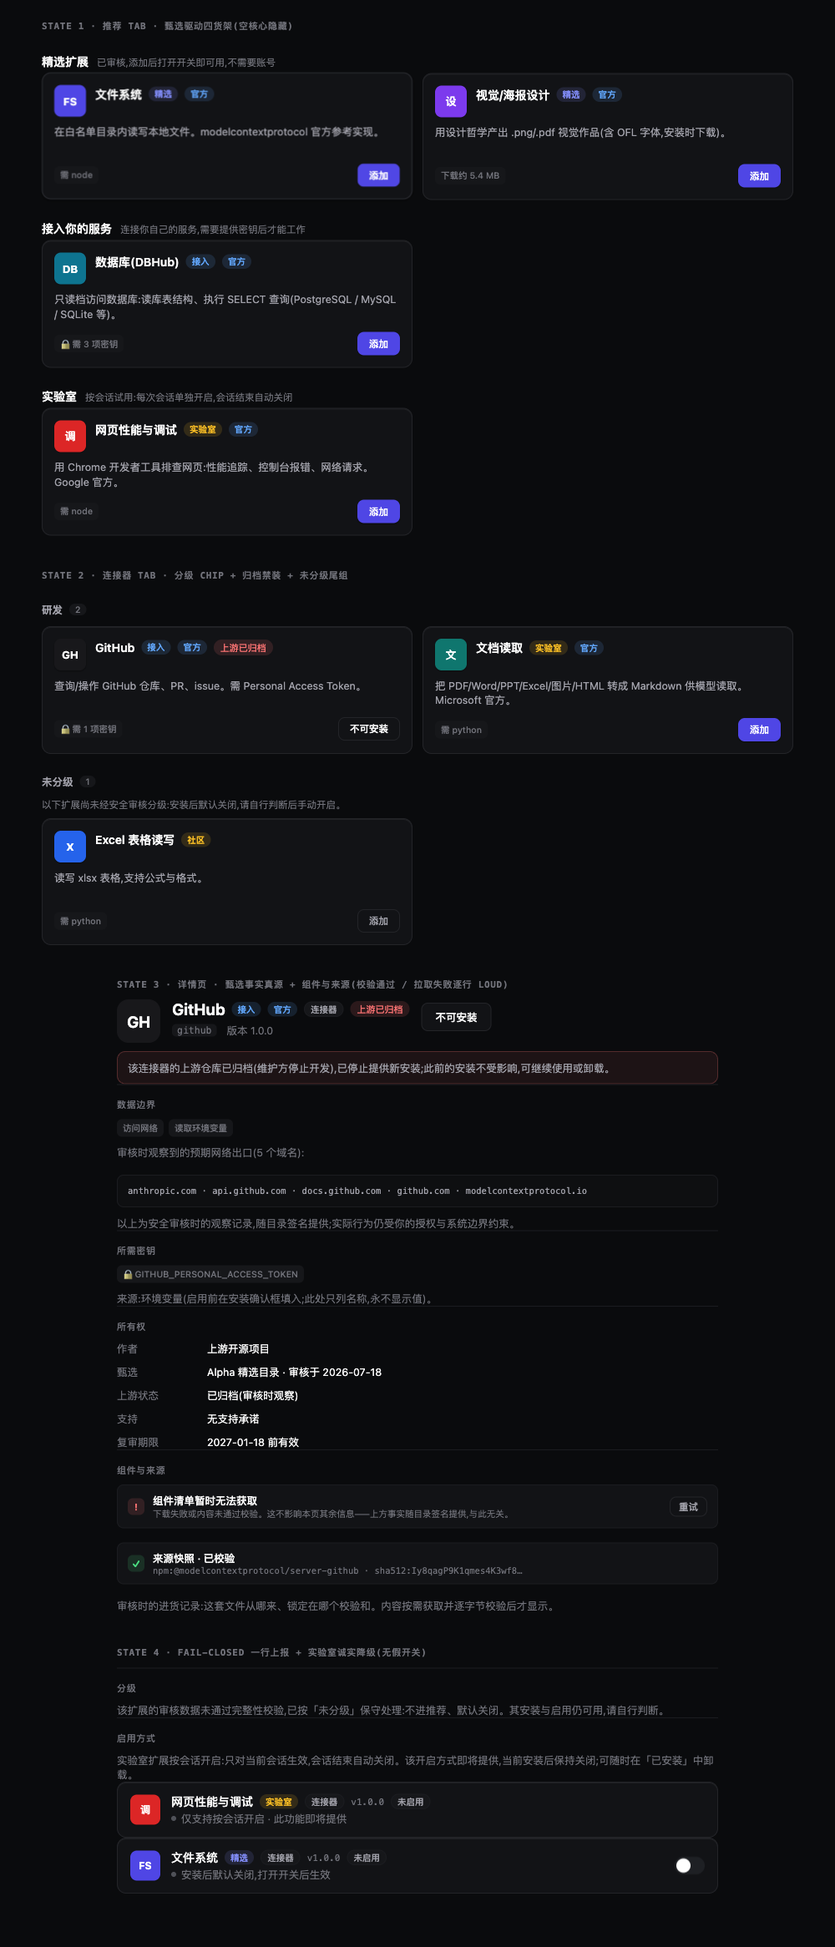
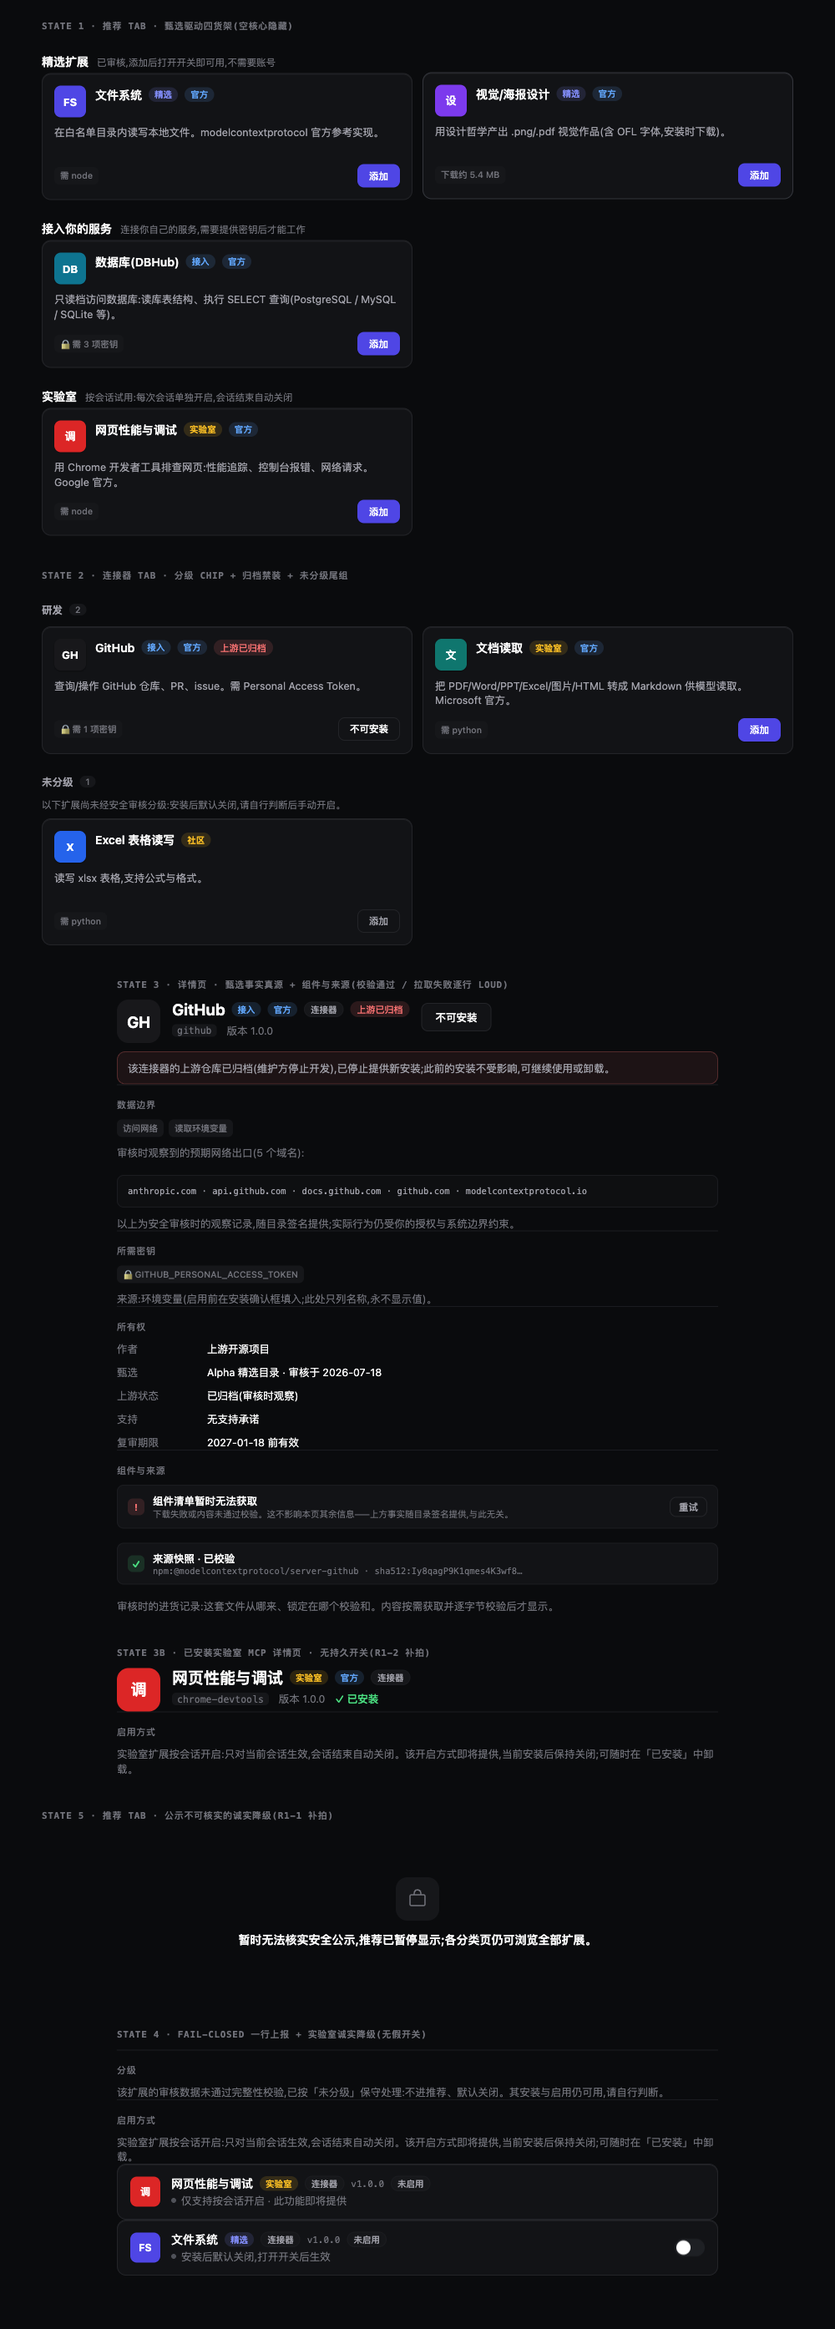
fix(REQ-104 #397 PR-B r1): 公示不可判定推荐面 fail-closed + 详情页实验室开关闭口 + 密钥来源分组 + config-only 口径
r1-1(Major):推荐面公示三态 —— advisoryFacts 加载中 / IPC 失败 / fresh=false(冷启动、
  过期 LKG)一律不建货架(不可判定 ≠ 空集,与 main「advisories 不可验即拒激活」同向
  fail-closed);诚实降级文案「暂时无法核实安全公示,推荐已暂停显示;各分类页仍可浏览
  全部扩展」(零术语);fetcher 异常自吞归一为不可判定态。
r1-2(Major):已装 MCP 详情页开关条件补 !sessionGrantNow() —— 实验室条目详情页与已装行
  同条件不渲染持久开关(可点后被 main 拒的开关 = 假开关,违 #408 诚实降级)。
r1-3(Minor):curated 密钥按来源分组如实标注(environment/connection 各组各注;混合来源
  不再整组误标环境变量)。
r1-4(Minor):metaPills 补 config-only →「无需下载(仅写配置)」(connection-only 条目
  的诚实口径;三态闭集全覆盖)。
out-of-round:L2 README 补 YAML frontmatter(verification 文档合同);CHANGELOG「精选
  (添加即用)」改「添加后打开开关即可用」并补公示降级一句(与 default-disabled 一致)。

L2 全量重摄(六态 × 双主题):增补 态 3B = 已装实验室 MCP 详情页无开关(r1-2)、
态 5 = 公示不可核实降级(r1-1);README 注明补拍。
门:scripts/alpha-check.sh 全量绿(2150 tests,0 fail)。

Refs jinjunnn/alpha-code#397

diff --git a/packages/ui-mac/src/renderer/extensions/extension-hub.tsx b/packages/ui-mac/src/renderer/extensions/extension-hub.tsx
@@ -131,7 +131,8 @@ function metaPills(e: CatalogEntry, curation?: Curation | null): { text: string;
       out.push({ text: t("alpha.ext.metaKeysCount", { count: String(curation.summaries.requiredSecrets.length) }), lock: true })
     const dl = downloadPresentation(curation)
     if (dl.kind === "known") out.push({ text: t("alpha.ext.metaDownloadKnown", { size: formatBytesApprox(dl.bytes) }) })
-    else if (dl.kind === "unknown") out.push({ text: t("alpha.ext.metaDownloadUnknown") })
+    else if (dl.kind === "config-only") out.push({ text: t("alpha.ext.metaDownloadNone") }) // r1-4:connection-only 诚实口径
+    else out.push({ text: t("alpha.ext.metaDownloadUnknown") })
     if (e.type === "bundle") out.push({ text: t("alpha.ext.metaItems", { count: (e.bundleItems ?? []).length }) })
     return out
   }
@@ -550,13 +551,25 @@ export function ExtensionHub(props: {
   // 复审期限比较的时钟:每次打开 hub 取一次(合同:消费端时钟仅用于此比较)。
   const nowIso = createMemo(() => (props.open(), new Date().toISOString()))
   // 公示阻断事实(main 派生已验公示 LKG + 随包基线;advisory 永远赢,§1)—— 每次打开刷新。
+  // r1-1(Major):**不可判定 ≠ 空集** —— 加载中 / IPC 失败 / 公示不新鲜(fresh=false:冷启动、
+  // 过期 LKG)时,renderer 无法证明条目未被公示阻断,推荐面必须保守(不建货架,诚实降级文案),
+  // 与 main 闸「advisories 不可验即拒激活」同向 fail-closed。fetcher 自吞异常归一为不可判定态。
   const [advisoryFacts] = createResource(
     () => (props.open() ? "open" : null),
-    () => window.api.ext.advisoryActive(),
+    () => window.api.ext.advisoryActive().catch((): { ids: string[]; fresh: boolean } => ({ ids: [], fresh: false })),
   )
+  const advisoryState = createMemo<"loading" | "unavailable" | "ready">(() => {
+    if (advisoryFacts.loading) return "loading"
+    if (advisoryFacts.error) return "unavailable"
+    const f = advisoryFacts()
+    return f && f.fresh ? "ready" : "unavailable"
+  })
   const advisoryBlocked = createMemo(() => new Set(advisoryFacts()?.ids ?? []))
   // 推荐页四货架(固定序 核心→精选→接入→实验室;空货架隐藏;未策展/归档/失养/过期/公示不进)。
-  const shelves = createMemo(() => buildShelves(catalog().entries, curationById(), nowIso(), advisoryBlocked()))
+  // 公示事实未就绪 = 零货架(保守;featured JSX 按 advisoryState 给诚实降级态)。
+  const shelves = createMemo(() =>
+    advisoryState() === "ready" ? buildShelves(catalog().entries, curationById(), nowIso(), advisoryBlocked()) : [],
+  )
 
   // Connectors grouped by category (fixed order) — drives the 连接器 tab subheaders.
   // #397 改动二:分组轴保持 category(货架是治理身份不是导航轴);仅已分级条目进分组,
@@ -1675,7 +1688,15 @@ export function ExtensionHub(props: {
                         </>
                       )}
                     </For>
-                    <Show when={shelves().length === 0}>
+                    {/* r1-1:公示事实三态的诚实呈现 —— 核实中 / 不可核实(保守不推荐,分类页仍可浏览)/
+                        就绪但目录无已审核条目。绝不以空集当「没有公示」上架。 */}
+                    <Show when={advisoryState() === "loading"}>
+                      <EmptyState title={t("alpha.ext.advisoriesChecking")} />
+                    </Show>
+                    <Show when={advisoryState() === "unavailable"}>
+                      <EmptyState title={t("alpha.ext.advisoriesUnavailable")} />
+                    </Show>
+                    <Show when={advisoryState() === "ready" && shelves().length === 0}>
                       <EmptyState title={t("alpha.ext.noShelves")} />
                     </Show>
                   </Show>

diff --git a/packages/ui-mac/src/renderer/extensions/extension-detail.tsx b/packages/ui-mac/src/renderer/extensions/extension-detail.tsx
@@ -436,7 +436,9 @@ export function ExtensionDetail(props: {
                     </button>
                   </Show>
                 </Show>
-                <Show when={e().type === "mcp" && installed()}>
+                {/* r1-2(Major):session-grant 条目详情页同样**不渲染**持久开关(main 闸拒持久启用;
+                    可点后被拒的开关 = 假开关,违反 #408 诚实降级 —— 与已装列表行同一条件)。 */}
+                <Show when={e().type === "mcp" && installed() && !sessionGrantNow()}>
                   {(() => {
                     // #395(Codex r9 B3):启用真源 = governance activation(账本 desiredState 投影);无
                     // governance 行(live-unreceipted 合成收据)按 live 连接态。开关走 hub 的
@@ -1040,28 +1042,45 @@ export function ExtensionDetail(props: {
               </Show>
             }
           >
-            {(c) => (
-              <Show
-                when={c().summaries.requiredSecrets.length > 0}
-                fallback={<p class="alpha-ext-dnote">{t("alpha.ext.noSecrets")}</p>}
-              >
-                <div class="alpha-ext-dpills">
-                  <For each={c().summaries.requiredSecrets}>
-                    {(s) => (
-                      <span class="alpha-ext-meta">
-                        <LockIc />
-                        {s.name}
-                      </span>
-                    )}
-                  </For>
-                </div>
-                <p class="alpha-ext-dnote">
-                  {c().summaries.requiredSecrets.every((s) => s.source === "connection")
-                    ? t("alpha.ext.secretsFromConnNote")
-                    : t("alpha.ext.secretsFromEnvNote")}
-                </p>
-              </Show>
-            )}
+            {(c) => {
+              // r1-3(Minor):按来源分组如实标注 —— 合同允许同条目混合 environment/connection,
+              // 整组归为环境变量会把 connection 密钥的来源说错;逐组各配各的说明。
+              const envSecrets = () => c().summaries.requiredSecrets.filter((s) => s.source === "environment")
+              const connSecrets = () => c().summaries.requiredSecrets.filter((s) => s.source === "connection")
+              return (
+                <Show
+                  when={c().summaries.requiredSecrets.length > 0}
+                  fallback={<p class="alpha-ext-dnote">{t("alpha.ext.noSecrets")}</p>}
+                >
+                  <Show when={envSecrets().length > 0}>
+                    <div class="alpha-ext-dpills">
+                      <For each={envSecrets()}>
+                        {(s) => (
+                          <span class="alpha-ext-meta">
+                            <LockIc />
+                            {s.name}
+                          </span>
+                        )}
+                      </For>
+                    </div>
+                    <p class="alpha-ext-dnote">{t("alpha.ext.secretsFromEnvNote")}</p>
+                  </Show>
+                  <Show when={connSecrets().length > 0}>
+                    <div class="alpha-ext-dpills">
+                      <For each={connSecrets()}>
+                        {(s) => (
+                          <span class="alpha-ext-meta">
+                            <LockIc />
+                            {s.name}
+                          </span>
+                        )}
+                      </For>
+                    </div>
+                    <p class="alpha-ext-dnote">{t("alpha.ext.secretsFromConnNote")}</p>
+                  </Show>
+                </Show>
+              )
+            }}
           </Show>
         </Section>
 

diff --git a/packages/ui-mac/src/renderer/i18n/en.ts b/packages/ui-mac/src/renderer/i18n/en.ts
@@ -213,6 +213,8 @@ export const dict = {
   "alpha.ext.shelfLabsTitle": "Labs",
   "alpha.ext.shelfLabsSub": "Per-session trial: turn it on for one session; it switches off when the session ends",
   "alpha.ext.noShelves": "Recommendations are on their way — this catalog has no reviewed extensions yet",
+  "alpha.ext.advisoriesChecking": "Checking security notices\u2026",
+  "alpha.ext.advisoriesUnavailable": "Security notices can\u2019t be verified right now, so recommendations are paused \u2014 every extension is still available in the category tabs.",
   "alpha.ext.ungradedGroup": "Not yet graded",
   "alpha.ext.ungradedNote": "These extensions have not been graded by security review yet: they stay off after install — turn them on yourself if you trust them.",
   "alpha.ext.shelfArchivedChip": "Upstream archived",

diff --git a/packages/ui-mac/src/renderer/i18n/zh.ts b/packages/ui-mac/src/renderer/i18n/zh.ts
@@ -212,6 +212,8 @@ export const dict = {
   "alpha.ext.shelfLabsTitle": "实验室",
   "alpha.ext.shelfLabsSub": "按会话试用:每次会话单独开启,会话结束自动关闭",
   "alpha.ext.noShelves": "推荐内容准备中:当前目录还没有通过安全审核的扩展",
+  "alpha.ext.advisoriesChecking": "正在核实安全公示\u2026",
+  "alpha.ext.advisoriesUnavailable": "暂时无法核实安全公示,推荐已暂停显示;各分类页仍可浏览全部扩展。",
   "alpha.ext.ungradedGroup": "未分级",
   "alpha.ext.ungradedNote": "以下扩展尚未经安全审核分级:安装后默认关闭,请自行判断后手动开启。",
   "alpha.ext.shelfArchivedChip": "上游已归档",

diff --git a/CHANGELOG.md b/CHANGELOG.md
@@ -9,7 +9,7 @@
 ## [Unreleased]
 
 ### Added
-- **定制中心按安全审核分级呈现:推荐页四级货架 + 详情页供应链事实**(REQ-104 #397 下半场,需下个签名版本生效)——①推荐页不再是手挑列表,改为按签名目录的审核分级自动生成的货架:核心(自动开启)、精选(添加即用)、接入(需你的密钥)、实验室(按会话试用);空货架自动隐藏,未经审核、上游已归档/不再维护、评审过期或有安全公示的扩展一律不进推荐(公示判定来自应用核实过的签名公示数据)。②各类型页里,已审核的扩展带四色分级标识,未审核的收进页尾「未分级」组并如实说明「安装后默认关闭」;上游已归档的扩展「添加」按钮置灰并给出原因。③详情页的数据边界、所需密钥、所有权改读签名审核记录:能力用大白话列出(读取本地文件、访问网络等)、预期网络出口逐域名可查(超过 6 个可展开)、密钥标注来源、所有权段并入审核时间/上游状态/支持等级/复审期限;新增「组件与来源」段,组件清单与来源快照按需下载、逐字节校验通过才显示,失败逐行如实报错并可重试(不影响本页其他信息)。④审核数据校验不过的扩展,详情页一行如实说明按「未分级」保守处理;实验室扩展详情页讲清「按会话开启」的含义(该开启方式即将提供,当前安装后保持关闭,已装行不显示无效开关);评审过期的扩展开启前弹确认框展示过期事实;安装完成提示按审核声明如实说「已装未启用」或直接可用。
+- **定制中心按安全审核分级呈现:推荐页四级货架 + 详情页供应链事实**(REQ-104 #397 下半场,需下个签名版本生效)——①推荐页不再是手挑列表,改为按签名目录的审核分级自动生成的货架:核心(自动开启)、精选(添加后打开开关即可用)、接入(需你的密钥)、实验室(按会话试用);空货架自动隐藏,未经审核、上游已归档/不再维护、评审过期或有安全公示的扩展一律不进推荐(公示判定来自应用核实过的签名公示数据;公示暂时无法核实时推荐如实暂停,各分类页照常可浏览)。②各类型页里,已审核的扩展带四色分级标识,未审核的收进页尾「未分级」组并如实说明「安装后默认关闭」;上游已归档的扩展「添加」按钮置灰并给出原因。③详情页的数据边界、所需密钥、所有权改读签名审核记录:能力用大白话列出(读取本地文件、访问网络等)、预期网络出口逐域名可查(超过 6 个可展开)、密钥标注来源、所有权段并入审核时间/上游状态/支持等级/复审期限;新增「组件与来源」段,组件清单与来源快照按需下载、逐字节校验通过才显示,失败逐行如实报错并可重试(不影响本页其他信息)。④审核数据校验不过的扩展,详情页一行如实说明按「未分级」保守处理;实验室扩展详情页讲清「按会话开启」的含义(该开启方式即将提供,当前安装后保持关闭,已装行不显示无效开关);评审过期的扩展开启前弹确认框展示过期事实;安装完成提示按审核声明如实说「已装未启用」或直接可用。
 - **扩展目录开始消费官方安全审核结论(地基半场:安装与启用策略先行)**(REQ-104 #397 PR-A,需下个签名版本生效)——签名目录里经过安全审核的扩展现在携带一份逐项审核结论(分级、启用方式、上游状态、复审期限、组件清单与来源快照的校验引用),本次先让**安装与启用面**真实消费它:①审核声明的启用方式优先于按来源猜的保守规则——声明「自动开启」的核心能力装完即用,声明「手动开启」的装完保持关闭;②标注「按会话试用」的实验室扩展,永远不会被持久开启:安装后保持关闭,任何路径(含更新到新版本)尝试把它设为常开都会被如实拒绝或当场纠正(按会话开启的机制随后续版本提供);历史上已被设为常开的(连接器、agent、插件、技能全类型)在下次启动时统一回到关闭;应用无法核实审核数据(联网记录缺失或损坏)而又存在已开启的目录扩展时,启动如实报错并停止加载扩展引擎,而不是装作没有问题;③上游仓库已归档的扩展停止提供新安装(已装的不受影响),套件里若包含此类必选子项则整包如实失败、可选子项跳过并说明;④安全复审已过期的扩展,新装先保持关闭、开启需要你显式确认;⑤审核数据但凡有一处对不上(未知字段、校验不过),整份一律不采信,按未审核的保守规则处理,绝不挑着用。组件清单与来源快照按需获取、逐字节校验后才会展示(展示界面随下半场交付)。审核结论如何呈现在推荐页与详情页(四级货架)也随下半场交付。
 - **第三方扩展装完默认不启用,启用开关扩展到全部类型**(REQ-104 #395,需下个签名版本生效)——从目录安装非 Alpha 自产的扩展(包括 GitHub 这类"官方出品"的连接器:官方出品不等于我们审过,供应链语义按第三方)后,它出现在「已安装」列表但处于关闭状态:技能不注入、agent 不加载、插件不进加载名单、连接器不连接,行上有「已安装 · 未启用」徽标,安装完成的提示也如实说"已安装但未启用"。你打开行内开关才生效——开关现在对技能/agent/插件/连接器全类型可用(此前只有连接器有),关闭同样真实卸下运行面。Alpha 自产与出厂自带能力保持默认开;你自己导入的技能/agent 视为自选内容,同样默认开;已装扩展不回溯改状态,更新/回滚永远保留你当前设定的开关状态(禁用状态下更新照常换代内容,但绝不静默重新启用)。启停切换在同一把锁内原子写入配置投影(禁用的插件从配置缺席、连接器写 enabled:false、agent 写 disable:true)并翻转账本,配置自持禁用态、界面显示与实际运行状态一致;被安全公告点名的扩展重新启用仍会被拦下。
 - **套件详情页新增「整包事实」段,装前看清整体代价**(REQ-104 #396,需下个签名版本生效)——套件(多个扩展打包一键装)的详情页在简介与子项列表之间新增一段整包汇总:下载体积(只统计经校验钉死的下载资产,含未钉死子项时如实显示「≥ 已知体积 + N 项体积未知」,绝不估算)、所需密钥变量、运行位置、支持等级(按全部子项的最低档),以及整包能力并集——每项能力标注来自哪个子项,高风险能力(本机子进程、引擎进程内代码)排前并显式标出,与安装时的授权确认框同一套派生来源与风险分级,两处永不打架。

diff --git a/docs/verification/2026-07-18-req104-shelves-l2/README.md b/docs/verification/2026-07-18-req104-shelves-l2/README.md
@@ -1,3 +1,13 @@
+---
+title: REQ-104 L2 视觉证据 — #397 PR-B 四级货架与策展呈现
+kind: verification
+status: active
+owners:
+  - alpha-code maintainers
+last_reviewed: 2026-07-18
+review_after: 2026-10-18
+---
+
 # REQ-104 L2 视觉证据 — #397 PR-B 四级货架与策展呈现(2026-07-18)
 
 真实 CSS harness 截图(#348/req103 同款 L2 模式):`tokens.css` + `extension-hub.css` 逐字加载
@@ -5,19 +15,22 @@
 `extension-hub.tsx` / `extension-detail.tsx` 实现产出(类名/结构/data-attr 一一对应),零样式覆写。
 对照基线 = 已批设计稿 `docs/design/2026-07-18-req104-four-shelf/design.html`(v6,approved 2026-07-18)。
 深色 = `document.documentElement.dataset.colorScheme = "dark"`(与 opencode 排程一致)。
+**本组截图为 Codex r1 后补拍全量重摄**:增补 态 3B(r1-2)与 态 5(r1-1),其余四态同首摄。
 
 | 文件 | 内容 |
 |---|---|
-| `req104-shelves-l2-light.png` | 浅色四态(下表) |
-| `req104-shelves-l2-dark.png` | 同四态,深色 |
+| `req104-shelves-l2-light.png` | 浅色六态(下表) |
+| `req104-shelves-l2-dark.png` | 同六态,深色 |
 
 | 态 | 覆盖点(v6 稿对照) |
 |---|---|
 | 1 推荐货架 | 甄选驱动三货架(核心空 → 整组隐藏);组头标题+用户语言副标题;卡片名称行四色分级 chip;meta pill 密钥/体积事实(诚实口径「下载约 5.4 MB」/「需 3 项密钥」) |
 | 2 连接器 tab | category 分组保留 + 分级 chip;归档卡 = 归档 chip + 「不可安装」置灰(tooltip 给原因);「未分级」尾组 = 诚实组头说明 + ghost 添加按钮 + 无分级 chip(缺席即身份) |
 | 3 详情页 | 甄选事实真源整段切换:数据边界(能力 pills + 5 域名清单 + 观察注脚)/所需密钥(名称+来源标注)/所有权(甄选·审核于 / 上游状态 / 支持=无支持承诺 / 复审期限);归档 warnbox + 头部「不可安装」;「组件与来源」= 拉取失败行(loud + 重试,明示不影响其余判定)+ 来源快照已校验行(mono locator+integrity) |
-| 4 fail-closed + 实验室降级 | 「分级」一行如实上报(仅 invalid 态);「启用方式」段(session-grant 讲人话 + #408 未落地的如实说明);已装实验室行 = 「仅支持按会话开启 · 此功能即将提供」且**不渲染开关**(诚实缺席,非置灰假开关);对照精选行照常有开关 |
+| 3B 已装实验室 MCP 详情页(r1-2 补拍) | 头部「已安装」态**不渲染持久开关**(与已装列表行同条件的诚实缺席,非置灰假开关)+「启用方式」段 —— 支撑「降级面无假开关」的完整声明 |
+| 4 fail-closed + 实验室降级 | 「分级」一行如实上报(仅 invalid 态);「启用方式」段(session-grant 讲人话 + #408 未落地的如实说明);已装实验室行 = 「仅支持按会话开启 · 此功能即将提供」且不渲染开关;对照精选行照常有开关 |
+| 5 公示降级(r1-1 补拍) | 公示不可核实(加载失败 / LKG 不新鲜)→ 推荐**保守零货架** + 诚实降级文案「暂时无法核实安全公示,推荐已暂停显示;各分类页仍可浏览全部扩展。」—— 不以空集当「没有公示」上架 |
 
-判定:四态 × 双主题与 v6 已批稿改动一/二/三/四一致(货架序/空货架隐藏/chip 四色/未分级组头/
-归档禁装/域名清单版式/评审事实行/组件与来源双行校验态/降级行无开关)。会话开关帧属 #408,
-本稿如实降级不渲染(v6 稿允许的中间态,PR 说明有记)。
+判定:六态 × 双主题与 v6 已批稿改动一/二/三/四一致(货架序/空货架隐藏/chip 四色/未分级组头/
+归档禁装/域名清单版式/评审事实行/组件与来源双行校验态/降级行与降级详情页均无开关/公示降级态)。
+会话开关帧属 #408,本稿如实降级不渲染(v6 稿允许的中间态,PR 说明有记)。
